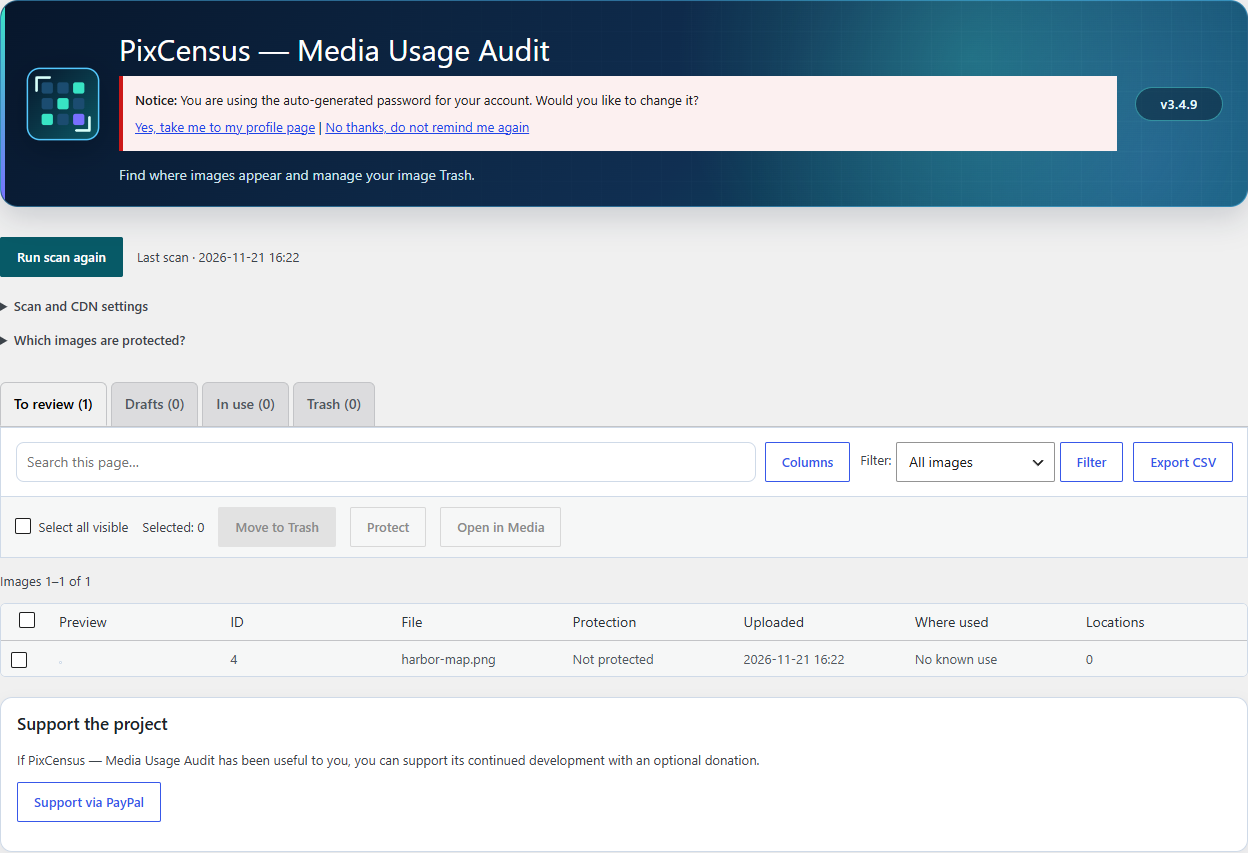
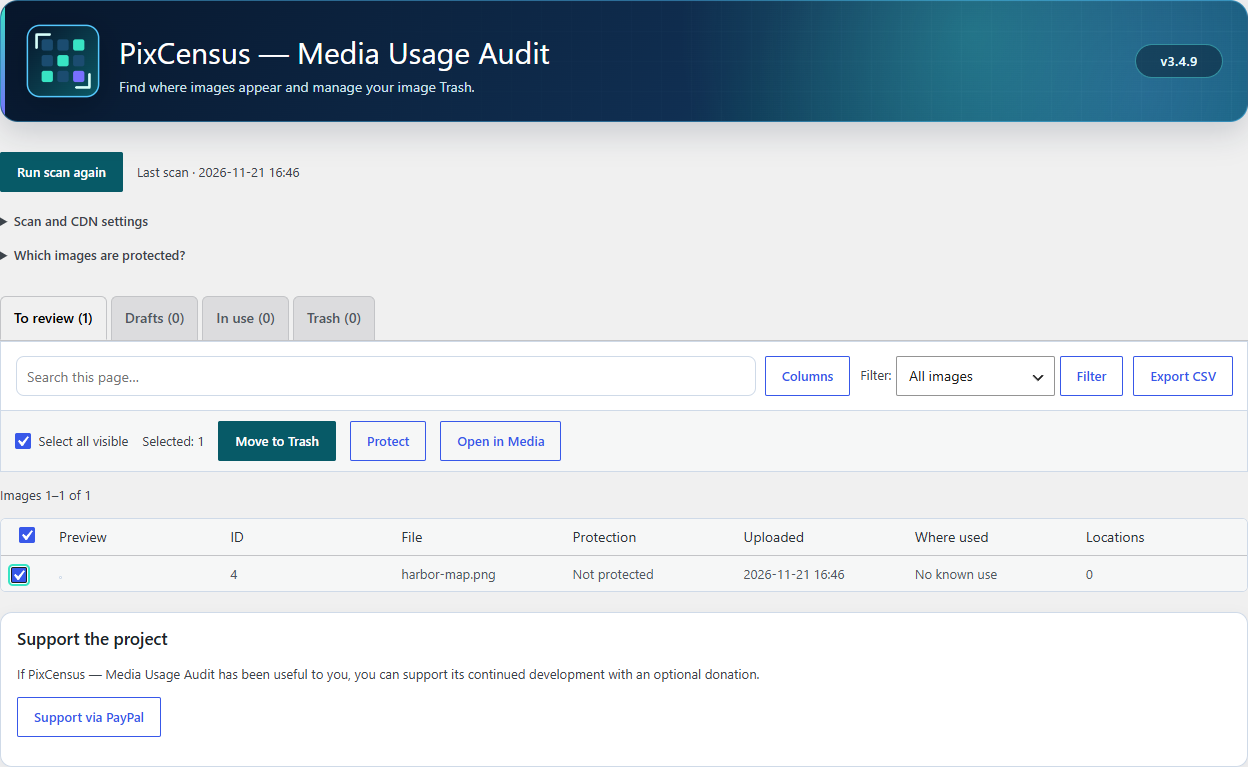
Clarify destructive media actions and refresh clean directory screenshots

diff --git a/README.md b/README.md
@@ -47,6 +47,17 @@ It can also report image files found in the uploads directory that are not regis
 - Exports used, draft-only, and potentially unused results to CSV.
 - Reports orphan image files in the WordPress uploads directory.
 
+## What changes in your Media Library
+
+Running a scan reads site content and saves an audit snapshot. It leaves media files and attachment records untouched. Cleanup actions have different effects:
+
+- **Protect** keeps selected images out of Trash. Remove protection when you are ready to review them again.
+- **Move to Trash** changes the selected attachments’ status. Trashing an image that a page uses can affect that page.
+- **Restore** returns an image from Trash. **Permanently delete** removes its attachment record and associated files after confirmation. Keep a tested backup if you might need them again.
+- With a positive retention period, WordPress can permanently delete expired items during scheduled cleanup. With zero days, PixCensus keeps them in Trash for manual action.
+
+Uninstalling PixCensus removes its settings and saved audit results. It leaves media in their current state, including items already in Trash.
+
 ## Review and clean up images
 
 In **Media → PixCensus**, select images in **To review**, **Drafts** or **In use** and choose **Move to Trash**. Open **Which images are protected?** for help removing manual protection or locating references. In **Trash**, restore images or confirm permanent deletion. WordPress controls automatic deletion using the site retention period. At zero days, images stay in Trash for manual restoration or deletion.
